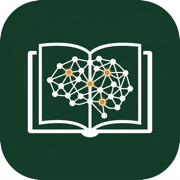
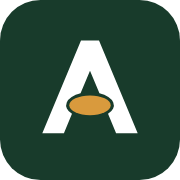
feat: add BrandLogo component and integrate across layouts and pages

diff --git a/resources/js/components/brand/brandArtwork.ts b/resources/js/components/brand/brandArtwork.ts
@@ -1,0 +1,11 @@
+// Generated by the logo kit's build_final.py (see brandguidelines.md). Do not edit by hand.
+// Symbol on a 256 grid; wordmark is "AceDrill" in Lexend SemiBold (SIL OFL 1.1), outlined.
+export const BRAND_GOLD = '#D99A3D';
+export const SYMBOL = { a: 'M22 232L108 26L148 26L234 232L186 232L168.05 189A53 29 0 0 0 149 143.37L128 93.07L107 143.37A53 29 0 0 0 87.95 189L70 232Z', oval: 'M82 170A46 22 0 1 1 174 170A46 22 0 1 1 82 170Z' };
+export const SYMBOL_SMALL = { a: 'M22 232L108 26L148 26L234 232L186 232L128 93.07L70 232Z', oval: 'M88 170A40 24 0 1 1 168 170A40 24 0 1 1 88 170Z' };
+export const HORIZONTAL = {
+    width: 1001.92,
+    height: 256,
+    wordmarkTransform: 'translate(300.63 232) scale(0.18)',
+    wordmark: 'M7.498779296875 0.0 282.387939453125 -700.0H415.722900390625L688.612060546875 0.0H535.109375L393.77734375 -376.8857421875Q387.666015625 -393.2197265625 379.3604736328125 -418.275146484375Q371.054931640625 -443.33056640625 361.99951171875 -471.0802001953125Q352.944091796875 -498.829833984375 345.11083984375 -524.38525390625Q337.277587890625 -549.940673828125 333.11083984375 -566.8857421875L360.388916015625 -567.496826171875Q354.388916015625 -545.052001953125 346.8612060546875 -520.4132080078125Q339.33349609375 -495.7744140625 331.000244140625 -470.4691162109375Q322.6669921875 -445.163818359375 313.8614501953125 -421.0250244140625Q305.055908203125 -396.88623046875 297.111328125 -374.44140625L156.390380859375 0.0ZM135.277099609375 -146.77587890625 184.22216796875 -267.499267578125H504.944580078125L555.22265625 -146.77587890625ZM977.22265625 10.0Q901.111328125 10.0 841.27783203125 -26.0Q781.4443359375 -62.0 746.777587890625 -124.1944580078125Q712.11083984375 -186.388916015625 712.11083984375 -264.944580078125Q712.11083984375 -343.500244140625 746.777587890625 -405.6947021484375Q781.4443359375 -467.88916015625 841.27783203125 -503.88916015625Q901.111328125 -539.88916015625 977.22265625 -539.88916015625Q1048.00048828125 -539.88916015625 1106.8616943359375 -513.9171142578125Q1165.722900390625 -487.945068359375 1198.834228515625 -441.66748046875L1121.2216796875 -348.33251953125Q1107.166259765625 -367.054443359375 1086.055419921875 -382.55419921875Q1064.944580078125 -398.053955078125 1040.44482421875 -406.9149169921875Q1015.945068359375 -415.77587890625 990.333984375 -415.77587890625Q949.33447265625 -415.77587890625 917.668212890625 -396.3594970703125Q886.001953125 -376.943115234375 867.89111328125 -342.7491455078125Q849.7802734375 -308.55517578125 849.7802734375 -265.33349609375Q849.7802734375 -222.500732421875 868.3077392578125 -188.6123046875Q886.835205078125 -154.723876953125 918.8070068359375 -134.613037109375Q950.77880859375 -114.502197265625 990.945068359375 -114.502197265625Q1017.167236328125 -114.502197265625 1040.1392822265625 -121.946533203125Q1063.111328125 -129.390869140625 1083.611083984375 -144.0850830078125Q1104.11083984375 -158.779296875 1121.2216796875 -179.723388671875L1198.4453125 -85.99951171875Q1164.500732421875 -42.55517578125 1104.4173583984375 -16.277587890625Q1044.333984375 10.0 977.22265625 10.0ZM1539.6669921875 10.0Q1454 10 1389.7498779296875 -25.0833740234375Q1325.499755859375 -60.166748046875 1289.8052978515625 -121.1390380859375Q1254.11083984375 -182.111328125 1254.11083984375 -261.278076171875Q1254.11083984375 -322.500244140625 1274.11083984375 -373.500244140625Q1294.11083984375 -424.500244140625 1329.999755859375 -462.000244140625Q1365.888671875 -499.500244140625 1415.388671875 -520.000244140625Q1464.888671875 -540.500244140625 1523.277587890625 -540.500244140625Q1577.388916015625 -540.500244140625 1623.1390380859375 -520.611328125Q1668.88916015625 -500.722412109375 1702.3614501953125 -465.3612060546875Q1735.833740234375 -430.0 1753.72265625 -381.7498779296875Q1771.611572265625 -333.499755859375 1770.22265625 -276.55517578125L1769.22265625 -233.3330078125H1344.11181640625L1321.11181640625 -320.388916015625H1652.220703125L1635.6650390625 -302.22216796875V-323.888671875Q1633.831787109375 -351.44384765625 1618.5264892578125 -372.9713134765625Q1603.22119140625 -394.498779296875 1578.88818359375 -406.7763671875Q1554.55517578125 -419.053955078125 1524.833251953125 -419.053955078125Q1480.55615234375 -419.053955078125 1450.167724609375 -401.8597412109375Q1419.779296875 -384.66552734375 1404.0850830078125 -351.9715576171875Q1388.390869140625 -319.277587890625 1388.390869140625 -271.7783203125Q1388.390869140625 -224.167724609375 1408.4739990234375 -188.9180908203125Q1428.55712890625 -153.66845703125 1466.0845947265625 -134.390869140625Q1503.612060546875 -115.11328125 1554.722900390625 -115.11328125Q1590.22265625 -115.11328125 1619.0556640625 -125.9742431640625Q1647.888671875 -136.835205078125 1681.054931640625 -164.2236328125L1749.00048828125 -68.66650390625Q1719.944580078125 -42.721923828125 1685.0556640625 -25.499755859375Q1650.166748046875 -8.277587890625 1613.222412109375 0.8612060546875Q1576.278076171875 10.0 1539.6669921875 10.0ZM1894.99951171875 0.0V-700.0H2182.22265625Q2258.7783203125 -700.0 2321.4173583984375 -674.611083984375Q2384.056396484375 -649.22216796875 2429.389892578125 -602.4166259765625Q2474.723388671875 -555.611083984375 2499.0845947265625 -491.611083984375Q2523.44580078125 -427.611083984375 2523.44580078125 -350.0Q2523.44580078125 -272.77783203125 2499.0845947265625 -208.27783203125Q2474.723388671875 -143.77783203125 2429.6954345703125 -97.27783203125Q2384.66748046875 -50.77783203125 2321.722900390625 -25.388916015625Q2258.7783203125 0.0 2182.22265625 0.0ZM2045.00244140625 -108.556640625 2028.779296875 -135.11328125H2177.22265625Q2222.4443359375 -135.11328125 2258.3050537109375 -150.3631591796875Q2294.165771484375 -165.613037109375 2319.3599853515625 -193.4183349609375Q2344.55419921875 -221.2236328125 2357.99853515625 -261.1954345703125Q2371.44287109375 -301.167236328125 2371.44287109375 -350.0Q2371.44287109375 -398.832763671875 2357.99853515625 -438.4990234375Q2344.55419921875 -478.165283203125 2319.054443359375 -506.276123046875Q2293.5546875 -534.386962890625 2257.99951171875 -549.6368408203125Q2222.4443359375 -564.88671875 2177.22265625 -564.88671875H2025.779296875L2045.00244140625 -589.443359375ZM2639.22216796875 0.0V-528.88916015625H2775.89111328125L2780.55810546875 -358.833251953125L2756.946044921875 -394.166259765625Q2768.723876953125 -435.277587890625 2795.8072509765625 -468.4166259765625Q2822.890625 -501.5556640625 2859.335205078125 -520.722412109375Q2895.77978515625 -539.88916015625 2935.89111328125 -539.88916015625Q2953.280029296875 -539.88916015625 2968.9744873046875 -537.0836181640625Q2984.6689453125 -534.278076171875 2996.00244140625 -530.278076171875L2957.723876953125 -374.33056640625Q2946.501708984375 -380.1083984375 2929.279296875 -384.5806884765625Q2912.056884765625 -389.052978515625 2893.77880859375 -389.052978515625Q2870.279052734375 -389.052978515625 2849.668212890625 -380.49755859375Q2829.057373046875 -371.942138671875 2814.0576171875 -356.3590087890625Q2799.057861328125 -340.77587890625 2790.391357421875 -319.9705810546875Q2781.724853515625 -299.165283203125 2781.724853515625 -273.66552734375V0.0ZM3088.77734375 0.0V-528.88916015625H3230.6689453125V0.0ZM3159.0009765625 -637.499755859375Q3117.833740234375 -637.499755859375 3094.9722900390625 -657.611083984375Q3072.11083984375 -677.722412109375 3072.11083984375 -714.55615234375Q3072.11083984375 -748.612060546875 3095.4722900390625 -770.1123046875Q3118.833740234375 -791.612548828125 3159.0009765625 -791.612548828125Q3200.168212890625 -791.612548828125 3223.0296630859375 -771.501220703125Q3245.89111328125 -751.389892578125 3245.89111328125 -714.55615234375Q3245.89111328125 -680.500244140625 3222.5296630859375 -659.0Q3199.168212890625 -637.499755859375 3159.0009765625 -637.499755859375ZM3384.4443359375 0.0V-740.0H3526.3359375V0.0ZM3671.4443359375 0.0V-740.0H3813.3359375V0.0Z',
+};

diff --git a/resources/js/pages/auth/ResetPassword.tsx b/resources/js/pages/auth/ResetPassword.tsx
@@ -1,6 +1,7 @@
 import { Head, Link, useForm } from '@inertiajs/react';
+import { BrandLogo } from '@/components/brand/BrandLogo';
 import { useState, FormEvent } from 'react';
-import { Eye, EyeOff, ArrowLeft, ShieldCheck, Lock, Sparkles, BookOpen } from 'lucide-react';
+import { Eye, EyeOff, ArrowLeft, ShieldCheck, Lock, Sparkles } from 'lucide-react';
 import ThemeToggle from '@/components/ui/ThemeToggle';
 
 interface ResetPasswordProps {
@@ -53,14 +54,9 @@ export default function ResetPassword({ token, email }: ResetPasswordProps) {
                 {/* Main Hero Content */}
                 <div className="relative z-10 my-auto space-y-6 max-w-md">
                     {/* Brand Emblem */}
-                    <div className="flex items-center gap-3">
-                        <div className="w-10 h-10 rounded-xl bg-[var(--color-accent)] text-[var(--color-primary)] flex items-center justify-center font-black shadow-md">
-                            <BookOpen className="w-5 h-5" />
-                        </div>
-                        <div>
-                            <span className="text-xl font-black tracking-tight text-white">AceDrill</span>
-                            <span className="block text-[10px] uppercase font-bold tracking-widest text-white/70">Account Security</span>
-                        </div>
+                    <div className="space-y-2">
+                        <BrandLogo tone="reversed" className="h-10 w-auto" />
+                        <span className="block text-[10px] uppercase font-bold tracking-widest text-white/70">Account Security</span>
                     </div>
 
                     {/* Headline & Description */}
@@ -137,7 +133,7 @@ export default function ResetPassword({ token, email }: ResetPasswordProps) {
                         {/* Centered Brand Emblem & Header */}
                         <div className="flex flex-col items-center text-center mb-6">
                             <div className="w-12 h-12 rounded-2xl bg-[var(--color-primary)] text-white flex items-center justify-center font-bold shadow-sm mb-3">
-                                <BookOpen className="w-6 h-6" />
+                                <BrandLogo variant="symbol" tone="reversed" className="w-8 h-8" title="" />
                             </div>
                             <h1 className="text-2xl sm:text-3xl font-black tracking-tight text-[var(--color-text)]">
                                 Create New Password

diff --git a/resources/js/pages/auth/ForgotPassword.tsx b/resources/js/pages/auth/ForgotPassword.tsx
@@ -1,6 +1,7 @@
 import { Head, Link, useForm } from '@inertiajs/react';
+import { BrandLogo } from '@/components/brand/BrandLogo';
 import { FormEvent } from 'react';
-import { ArrowLeft, CheckCircle2, KeyRound, ShieldCheck, Sparkles, BookOpen } from 'lucide-react';
+import { ArrowLeft, CheckCircle2, KeyRound, ShieldCheck, Sparkles } from 'lucide-react';
 import ThemeToggle from '@/components/ui/ThemeToggle';
 
 interface ForgotPasswordProps {
@@ -44,14 +45,9 @@ export default function ForgotPassword({ status }: ForgotPasswordProps) {
                 {/* Main Hero Content */}
                 <div className="relative z-10 my-auto space-y-6 max-w-md">
                     {/* Brand Emblem */}
-                    <div className="flex items-center gap-3">
-                        <div className="w-10 h-10 rounded-xl bg-[var(--color-accent)] text-[var(--color-primary)] flex items-center justify-center font-black shadow-md">
-                            <BookOpen className="w-5 h-5" />
-                        </div>
-                        <div>
-                            <span className="text-xl font-black tracking-tight text-white">AceDrill</span>
-                            <span className="block text-[10px] uppercase font-bold tracking-widest text-white/70">Account Security</span>
-                        </div>
+                    <div className="space-y-2">
+                        <BrandLogo tone="reversed" className="h-10 w-auto" />
+                        <span className="block text-[10px] uppercase font-bold tracking-widest text-white/70">Account Security</span>
                     </div>
 
                     {/* Headline & Description */}
@@ -131,7 +127,7 @@ export default function ForgotPassword({ status }: ForgotPasswordProps) {
                         {/* Centered Brand Emblem & Header */}
                         <div className="flex flex-col items-center text-center mb-6">
                             <div className="w-12 h-12 rounded-2xl bg-[var(--color-primary)] text-white flex items-center justify-center font-bold shadow-sm mb-3">
-                                <BookOpen className="w-6 h-6" />
+                                <BrandLogo variant="symbol" tone="reversed" className="w-8 h-8" title="" />
                             </div>
                             <h1 className="text-2xl sm:text-3xl font-black tracking-tight text-[var(--color-text)]">
                                 Reset Password

diff --git a/resources/js/pages/auth/Login.tsx b/resources/js/pages/auth/Login.tsx
@@ -1,6 +1,7 @@
 import { Head, Link, useForm } from '@inertiajs/react';
+import { BrandLogo } from '@/components/brand/BrandLogo';
 import { useState, FormEvent } from 'react';
-import { Eye, EyeOff, ArrowLeft, CheckCircle2, Sparkles, BookOpen, WifiOff, Award } from 'lucide-react';
+import { Eye, EyeOff, ArrowLeft, CheckCircle2, Sparkles, WifiOff, Award } from 'lucide-react';
 import ThemeToggle from '@/components/ui/ThemeToggle';
 
 interface LoginProps {
@@ -49,14 +50,9 @@ export default function Login({ status }: LoginProps) {
                 {/* Main Hero Content */}
                 <div className="relative z-10 my-auto space-y-6 max-w-md">
                     {/* Brand Emblem */}
-                    <div className="flex items-center gap-3">
-                        <div className="w-10 h-10 rounded-xl bg-[var(--color-accent)] text-[var(--color-primary)] flex items-center justify-center font-black shadow-md">
-                            <BookOpen className="w-5 h-5" />
-                        </div>
-                        <div>
-                            <span className="text-xl font-black tracking-tight text-white">AceDrill</span>
-                            <span className="block text-[10px] uppercase font-bold tracking-widest text-white/70">Learning Portal</span>
-                        </div>
+                    <div className="space-y-2">
+                        <BrandLogo tone="reversed" className="h-10 w-auto" />
+                        <span className="block text-[10px] uppercase font-bold tracking-widest text-white/70">Learning Portal</span>
                     </div>
 
                     {/* Headline & Description */}
@@ -133,7 +129,7 @@ export default function Login({ status }: LoginProps) {
                         {/* Centered Brand Emblem & Header */}
                         <div className="flex flex-col items-center text-center mb-6">
                             <div className="w-12 h-12 rounded-2xl bg-[var(--color-primary)] text-white flex items-center justify-center font-bold shadow-sm mb-3">
-                                <BookOpen className="w-6 h-6" />
+                                <BrandLogo variant="symbol" tone="reversed" className="w-8 h-8" title="" />
                             </div>
                             <h1 className="text-2xl sm:text-3xl font-black tracking-tight text-[var(--color-text)]">
                                 Sign In

diff --git a/resources/js/pages/auth/Register.tsx b/resources/js/pages/auth/Register.tsx
@@ -1,6 +1,7 @@
 import { Head, Link, useForm } from '@inertiajs/react';
+import { BrandLogo } from '@/components/brand/BrandLogo';
 import { useState, FormEvent } from 'react';
-import { Eye, EyeOff, ArrowLeft, BookOpen, WifiOff, Award, UserCheck } from 'lucide-react';
+import { Eye, EyeOff, ArrowLeft, WifiOff, Award, UserCheck } from 'lucide-react';
 import ThemeToggle from '@/components/ui/ThemeToggle';
 
 export default function Register() {
@@ -48,14 +49,9 @@ export default function Register() {
                 {/* Main Hero Content */}
                 <div className="relative z-10 my-auto space-y-6 max-w-md">
                     {/* Brand Emblem */}
-                    <div className="flex items-center gap-3">
-                        <div className="w-10 h-10 rounded-xl bg-[var(--color-accent)] text-[var(--color-primary)] flex items-center justify-center font-black shadow-md">
-                            <BookOpen className="w-5 h-5" />
-                        </div>
-                        <div>
-                            <span className="text-xl font-black tracking-tight text-white">AceDrill</span>
-                            <span className="block text-[10px] uppercase font-bold tracking-widest text-white/70">Learner Portal</span>
-                        </div>
+                    <div className="space-y-2">
+                        <BrandLogo tone="reversed" className="h-10 w-auto" />
+                        <span className="block text-[10px] uppercase font-bold tracking-widest text-white/70">Learner Portal</span>
                     </div>
 
                     {/* Headline & Description */}
@@ -132,7 +128,7 @@ export default function Register() {
                         {/* Centered Brand Emblem & Header */}
                         <div className="flex flex-col items-center text-center mb-6">
                             <div className="w-12 h-12 rounded-2xl bg-[var(--color-primary)] text-white flex items-center justify-center font-bold shadow-sm mb-3">
-                                <BookOpen className="w-6 h-6" />
+                                <BrandLogo variant="symbol" tone="reversed" className="w-8 h-8" title="" />
                             </div>
                             <h1 className="text-2xl sm:text-3xl font-black tracking-tight text-[var(--color-text)]">
                                 Create Account

diff --git a/vite.config.ts b/vite.config.ts
@@ -23,13 +23,15 @@ export default defineConfig({
                 // Also precache the offline fallback page from public/
                 additionalManifestEntries: [
                     { url: '/offline.html', revision: '2' },
-                    { url: '/images/icon-144x144.png', revision: '1' },
-                    { url: '/images/icon-192x192.png', revision: '1' },
-                    { url: '/images/icon-512x512.png', revision: '1' },
-                    { url: '/images/apple-touch-icon.png', revision: '1' },
-                    { url: '/images/favicon-32x32.png', revision: '1' },
-                    { url: '/images/favicon-16x16.png', revision: '1' },
-                    { url: '/favicon.ico', revision: '1' },
+                    { url: '/images/icon-144x144.png', revision: '2' },
+                    { url: '/images/icon-192x192.png', revision: '2' },
+                    { url: '/images/icon-512x512.png', revision: '2' },
+                    { url: '/images/apple-touch-icon.png', revision: '2' },
+                    { url: '/images/favicon-32x32.png', revision: '2' },
+                    { url: '/images/favicon-16x16.png', revision: '2' },
+                    { url: '/favicon.ico', revision: '2' },
+                    { url: '/images/favicon.svg', revision: '1' },
+                    { url: '/images/maskable-512x512.png', revision: '1' },
                     { url: '/images/screenshot-desktop.png', revision: '1' },
                     { url: '/images/screenshot-mobile.png', revision: '1' },
                 ],
@@ -174,13 +176,8 @@ export default defineConfig({
                         purpose: 'any'
                     },
                     {
-                        src: '/images/icon-192x192.png',
-                        sizes: '192x192',
-                        type: 'image/png',
-                        purpose: 'maskable'
-                    },
-                    {
-                        src: '/images/icon-512x512.png',
+                        // Full-bleed tile with the mark inside the 80 % safe zone, so Android's mask never clips it.
+                        src: '/images/maskable-512x512.png',
                         sizes: '512x512',
                         type: 'image/png',
                         purpose: 'maskable'

diff --git a/resources/js/pages/Welcome.tsx b/resources/js/pages/Welcome.tsx
@@ -1,4 +1,5 @@
 import { useState } from 'react';
+import { BrandLogo } from '@/components/brand/BrandLogo';
 import { Head, Link } from '@inertiajs/react';
 import PWAInstallPrompt from '@/components/ui/PWAInstallPrompt';
 import ThemeToggle from '@/components/ui/ThemeToggle';
@@ -165,16 +166,8 @@ export default function Welcome({ subjects = [], stats, faqs }: WelcomeProps) {
                 <header className="sticky top-0 z-50 w-full px-2.5 sm:px-6 pt-2.5 sm:pt-3 pb-2">
                     <nav className="max-w-6xl mx-auto px-3 sm:px-5 py-2 sm:py-2.5 rounded-2xl bg-[var(--color-surface)]/90 backdrop-blur-md border border-[var(--color-border)] shadow-sm flex items-center justify-between gap-2 sm:gap-4 transition-all">
                         {/* Brand Logo */}
-                        <Link href="/" className="flex items-center gap-2 sm:gap-2.5 shrink-0">
-                            <div className="w-8 h-8 sm:w-9 sm:h-9 rounded-xl bg-[var(--color-primary)] flex items-center justify-center text-white shadow-xs">
-                                <svg className="w-4 h-4 sm:w-5 sm:h-5" fill="none" stroke="currentColor" viewBox="0 0 24 24">
-                                    <path strokeLinecap="round" strokeLinejoin="round" strokeWidth="2" d="M12 6.253v13m0-13C10.832 5.477 9.246 5 7.5 5S4.168 5.477 3 6.253v13C4.168 18.477 5.754 18 7.5 18s3.332.477 4.5 1.253m0-13C13.168 5.477 14.754 5 16.5 5c1.747 0 3.332.477 4.5 1.253v13C19.832 18.477 18.247 18 16.5 18c-1.746 0-3.332.477-4.5 1.253" />
-                                </svg>
-                            </div>
-                            <div className="flex flex-col">
-                                <span className="text-base sm:text-lg font-black tracking-tight text-[var(--color-primary)] leading-none">AceDrill</span>
-                                <span className="text-[9px] sm:text-[10px] font-semibold text-[var(--color-muted)]">Offline Learning</span>
-                            </div>
+                        <Link href="/" className="flex items-center shrink-0" aria-label="AceDrill home">
+                            <BrandLogo className="h-7 sm:h-8 w-auto" title="" />
                         </Link>
 
                         {/* Navigation Links (Clean & Short) */}

diff --git a/resources/js/layouts/AuthenticatedLayout.tsx b/resources/js/layouts/AuthenticatedLayout.tsx
@@ -1,4 +1,5 @@
 import { Link, usePage } from '@inertiajs/react';
+import { BrandLogo } from '@/components/brand/BrandLogo';
 import React, { useEffect, useState } from 'react';
 import ChatWidget from '@/components/ui/ChatWidget';
 import PWAInstallPrompt from '@/components/ui/PWAInstallPrompt';
@@ -94,11 +95,8 @@ export default function AuthenticatedLayout({ children, header }: { children: Re
         <div className="min-h-screen bg-[var(--color-background)] text-[var(--color-text)] flex flex-col relative">
             {/* Mobile Clean Top Header Bar */}
             <div className="md:hidden bg-[var(--color-surface)] border-b border-[var(--color-border)] px-4 py-2.5 flex items-center justify-between sticky top-0 z-30 shadow-xs">
-                <Link
-                    href="/dashboard"
-                    className="text-xl font-bold text-[var(--color-primary)] tracking-tight flex items-center gap-2"
-                >
-                    <span>AceDrill</span>
+                <Link href="/dashboard" className="flex items-center" aria-label="AceDrill dashboard">
+                    <BrandLogo className="h-7 w-auto" title="" />
                 </Link>
                 <div className="flex items-center gap-2">
                     <SyncStatus compact fallback={<OfflineReadinessBadge isOnline={isOnline} compact />} />
@@ -113,11 +111,8 @@ export default function AuthenticatedLayout({ children, header }: { children: Re
                 <div>
                     {/* Desktop Sidebar Brand Header */}
                     <div className="px-6 py-6 border-b border-white/10">
-                        <Link
-                            href="/dashboard"
-                            className="text-2xl font-bold text-white tracking-tight"
-                        >
-                            AceDrill
+                        <Link href="/dashboard" className="inline-flex" aria-label="AceDrill dashboard">
+                            <BrandLogo tone="reversed" className="h-9 w-auto" title="" />
                         </Link>
                         <p className="text-xs text-[var(--color-primary-light)] mt-0.5 font-medium">Offline-First Learning</p>
                     </div>

diff --git a/resources/js/pages/ExamPrep/PastQuestionsIndex.tsx b/resources/js/pages/ExamPrep/PastQuestionsIndex.tsx
@@ -1,4 +1,5 @@
 import AuthenticatedLayout from '@/layouts/AuthenticatedLayout';
+import { BrandLogo } from '@/components/brand/BrandLogo';
 import { Head, Link, usePage } from '@inertiajs/react';
 import { PastQuestionsHub } from '@/components/past-questions/PastQuestionsHub';
 import PWAInstallPrompt from '@/components/ui/PWAInstallPrompt';
@@ -40,13 +41,8 @@ export default function PastQuestionsIndex() {
             <header className="sticky top-0 z-50 w-full px-2.5 sm:px-6 pt-2.5 sm:pt-3 pb-2">
                 <nav className="max-w-7xl mx-auto px-3 sm:px-6 py-2 sm:py-2.5 rounded-2xl bg-[var(--color-surface)]/85 backdrop-blur-xl border border-[var(--color-border)]/80 shadow-md shadow-black/[0.03] flex items-center justify-between gap-2 transition-all">
                     {/* Brand Logo */}
-                    <Link href="/" className="flex items-center gap-2 sm:gap-2.5 shrink-0 group">
-                        <div className="w-8 h-8 sm:w-9 sm:h-9 rounded-xl bg-[var(--color-primary)] flex items-center justify-center shadow-xs group-hover:scale-105 transition-transform">
-                            <svg className="w-4 h-4 sm:w-5 sm:h-5 text-white" fill="none" stroke="currentColor" viewBox="0 0 24 24">
-                                <path strokeLinecap="round" strokeLinejoin="round" strokeWidth="2" d="M12 6.253v13m0-13C10.832 5.477 9.246 5 7.5 5S4.168 5.477 3 6.253v13C4.168 18.477 5.754 18 7.5 18s3.332.477 4.5 1.253m0-13C13.168 5.477 14.754 5 16.5 5c1.747 0 3.332.477 4.5 1.253v13C19.832 18.477 18.247 18 16.5 18c-1.746 0-3.332.477-4.5 1.253" />
-                            </svg>
-                        </div>
-                        <span className="text-base sm:text-lg font-bold tracking-tight text-[var(--color-primary)]">AceDrill</span>
+                    <Link href="/" className="flex items-center shrink-0" aria-label="AceDrill home">
+                        <BrandLogo className="h-7 sm:h-8 w-auto" title="" />
                     </Link>
 
                     {/* Right Action Links */}

diff --git a/resources/js/components/brand/BrandLogo.tsx b/resources/js/components/brand/BrandLogo.tsx
@@ -1,0 +1,36 @@
+import { BRAND_GOLD, HORIZONTAL, SYMBOL, SYMBOL_SMALL } from './brandArtwork';
+
+/**
+ * The AceDrill logo (brandguidelines.md): an A whose crossbar is a shaded gold answer oval,
+ * with "AceDrill" in Lexend. Drawn inline, so it needs no download and works offline.
+ *
+ * Colour: the A and the name use --color-brand-mark (Ace Green in light mode, white in dark
+ * mode); `tone="reversed"` makes them white for green or dark backgrounds. The oval is always gold.
+ */
+interface BrandLogoProps {
+    /** `horizontal` = symbol + name (default); `symbol` = the mark alone. */
+    variant?: 'horizontal' | 'symbol';
+    tone?: 'auto' | 'reversed';
+    /** Use the small-size drawing (for marks under 32 px tall). */
+    small?: boolean;
+    className?: string;
+    /** Accessible name; pass '' when visible text next to it already names the brand. */
+    title?: string;
+}
+
+export function BrandLogo({ variant = 'horizontal', tone = 'auto', small = false, className, title = 'AceDrill' }: BrandLogoProps) {
+    const ink = tone === 'reversed' ? '#FFFFFF' : 'var(--color-brand-mark)';
+    const symbol = small ? SYMBOL_SMALL : SYMBOL;
+    const width = variant === 'symbol' ? 256 : HORIZONTAL.width;
+    const label = title ? { role: 'img', 'aria-label': title } : { 'aria-hidden': true };
+
+    return (
+        <svg viewBox={`0 0 ${width} 256`} className={className} {...label} focusable="false">
+            <path fill={ink} d={symbol.a} />
+            <path fill={BRAND_GOLD} d={symbol.oval} />
+            {variant === 'horizontal' && <path fill={ink} transform={HORIZONTAL.wordmarkTransform} d={HORIZONTAL.wordmark} />}
+        </svg>
+    );
+}
+
+export default BrandLogo;

diff --git a/resources/js/components/admin/question-bank/QuestionImageUploader.tsx b/resources/js/components/admin/question-bank/QuestionImageUploader.tsx
@@ -74,6 +74,19 @@ export default function QuestionImageUploader({
                     setIsUploading(false);
                     return;
                 }
+            } else {
+                // The server answered and refused: saving the picture into the question instead
+                // would only fail later (image links are capped at 500 characters). Say why.
+                const data = await res.json().catch(() => ({}));
+                showToast?.(
+                    res.status === 403 && !data?.message
+                        ? 'Picture uploads are blocked by the web host right now. Use "URL Link" to add a picture from a link, or try again later.'
+                        : data?.message || data?.errors?.image?.[0] || 'The picture could not be uploaded. Try a smaller image, or use "URL Link".',
+                    'error'
+                );
+                if (res.status === 403) setActiveTab('url');
+                setIsUploading(false);
+                return;
             }
         } catch (err) {
             console.warn('Online upload unavailable, falling back to local base64 DataURL for offline mode...', err);

diff --git a/resources/css/app.css b/resources/css/app.css
@@ -13,6 +13,7 @@
 html[data-theme="light"] {
     /* ── Light Palette ── */
     --color-primary:        #183B2B;
+    --color-brand-mark:     #183B2B;   /* logo A + name (brandguidelines.md) */
     --color-primary-light:  #6F8F7A;
     --color-accent:         #D99A3D;
     --color-background:     #F7F4EC;
@@ -48,6 +49,7 @@ html[data-theme="dark"],
 [data-theme="dark"] {
     /* ── Dark Palette (AceDrill Obsidian Emerald) ── */
     --color-primary:        #2E7D52;
+    --color-brand-mark:     #F1F5F2;   /* the reversed logo on dark surfaces */
     --color-primary-light:  #52B788;
     --color-accent:         #E5A93C;
     --color-background:     #0D1510;
